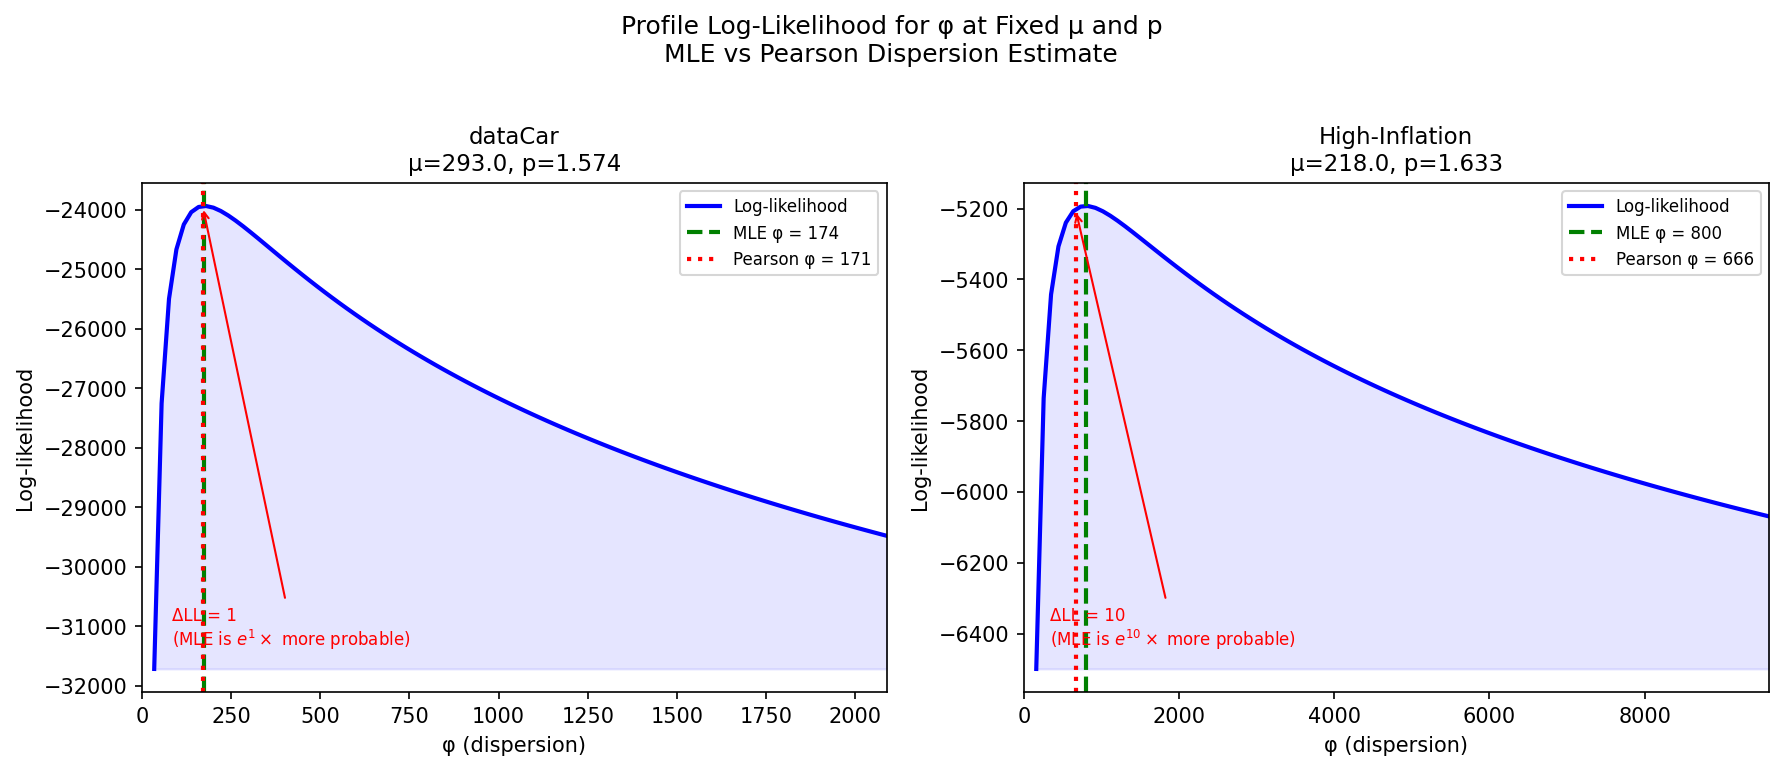
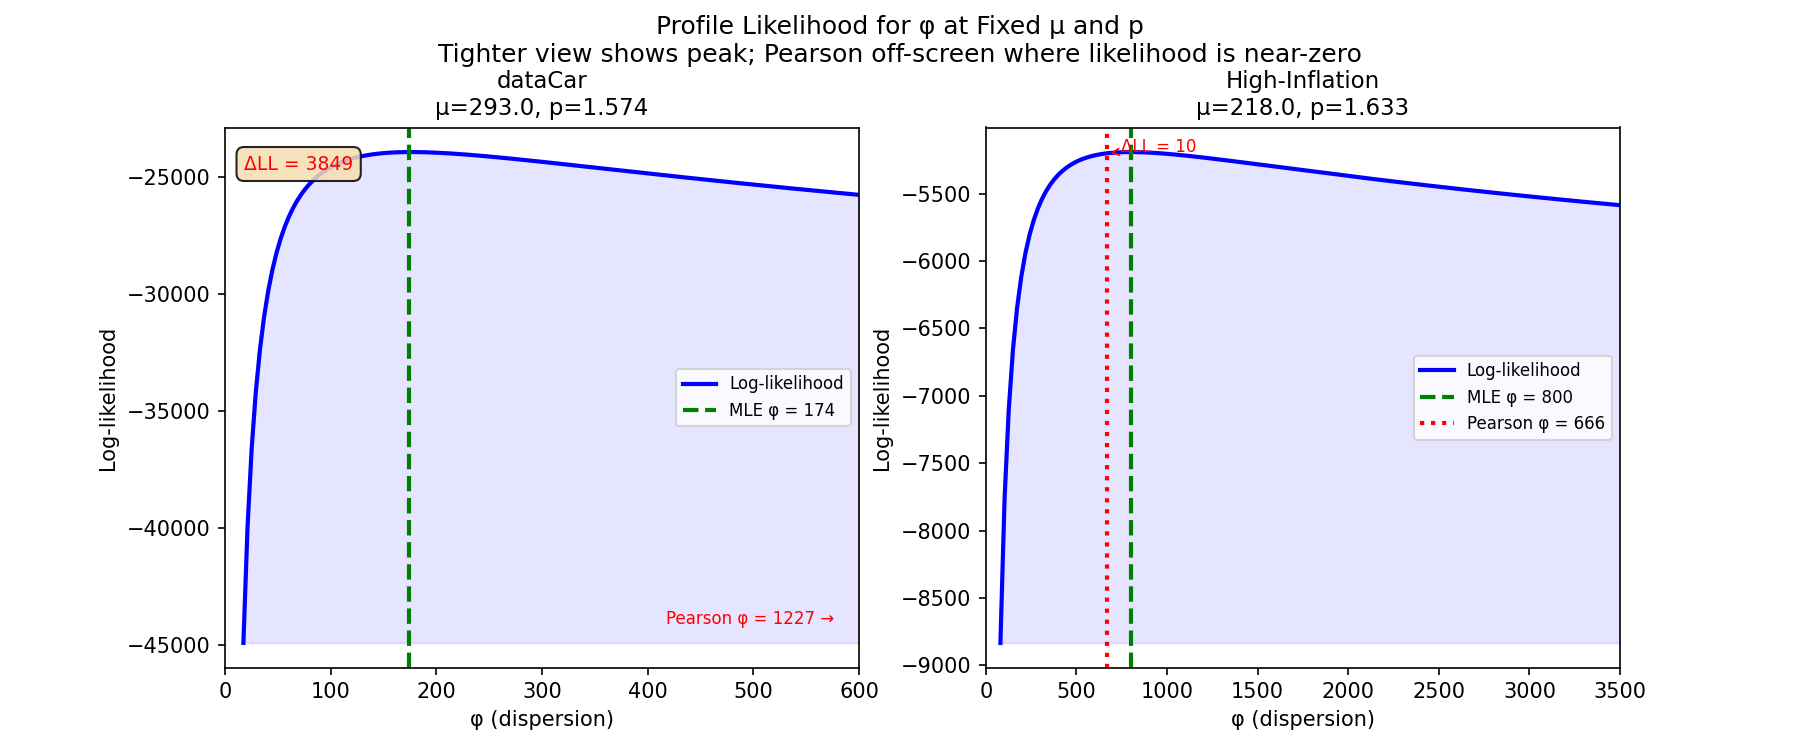
iterate on image

diff --git a/docs/blog/posts/scripts/pearson-phi-broken-tweedie/fig_profile_likelihood.py b/docs/blog/posts/scripts/pearson-phi-broken-tweedie/fig_profile_likelihood.py
@@ -48,8 +48,18 @@ def generate_data(n, mu, phi, p, rng=None):
 rng = np.random.default_rng(42)
 
 datasets = [
-    {"name": "dataCar", "mu": 293.0, "phi": 174.0, "p": 1.574, "n": 15000},
-    {"name": "High-Inflation", "mu": 218.0, "phi": 800.0, "p": 1.633, "n": 15000},
+    {
+        "name": "dataCar",
+        "mu": 293.0, "phi": 174.0, "p": 1.574, "n": 15000,
+        "x_max": 600,
+        "phi_pearson_blog": 1227,  # From actual dataCar data (blog post)
+    },
+    {
+        "name": "High-Inflation",
+        "mu": 218.0, "phi": 800.0, "p": 1.633, "n": 15000,
+        "x_max": 3500,
+        "phi_pearson_blog": None,  # Compute from synthetic data
+    },
 ]
 
 fig, axes = plt.subplots(1, 2, figsize=(12, 5))
@@ -59,17 +69,18 @@ for ax, ds in zip(axes, datasets):
     mu_ds = ds["mu"]
     phi_true = ds["phi"]
     p_ds = ds["p"]
+    x_max = ds["x_max"]
 
     y = generate_data(ds["n"], mu_ds, phi_true, p_ds, rng=rng)
 
-    phi_grid = np.linspace(phi_true * 0.2, phi_true * 12, 100)
+    # Finer grid over tighter range to show peak curvature
+    phi_grid = np.linspace(phi_true * 0.1, x_max, 150)
     ll = profile_likelihood_phi(mu_ds, phi_true, p_ds, y, phi_grid)
 
-    phi_pearson = pearson_phi(y, mu_ds, p_ds)
-    ll_max = ll.max()
-    ll_mle = tweedie_logp_series(y, mu_ds, phi_true, p_ds).sum()
+    # Use blog's known Pearson φ for dataCar; compute from data otherwise
+    phi_pearson = ds.get("phi_pearson_blog") or pearson_phi(y, mu_ds, p_ds)
     ll_pearson = tweedie_logp_series(y, mu_ds, phi_pearson, p_ds).sum()
-
+    ll_mle = tweedie_logp_series(y, mu_ds, phi_true, p_ds).sum()
     delta_ll = ll_mle - ll_pearson
 
     exponent_10 = delta_ll / np.log(10)
@@ -78,30 +89,44 @@ for ax, ds in zip(axes, datasets):
           file=sys.stderr)
 
     ax.plot(phi_grid, ll, "b-", linewidth=2, label="Log-likelihood")
+    ax.fill_between(phi_grid, ll.min(), ll, alpha=0.1, color="blue")
+
+    # MLE at the peak
     ax.axvline(phi_true, color="green", linestyle="--", linewidth=2,
                label=f"MLE φ = {phi_true:.0f}")
-    ax.axvline(phi_pearson, color="red", linestyle=":", linewidth=2,
-               label=f"Pearson φ = {phi_pearson:.0f}")
 
-    ax.fill_between(phi_grid, ll.min(), ll, alpha=0.1, color="blue")
+    # Pearson — drawn on-screen or annotated off-screen
+    if phi_pearson <= x_max * 0.95:
+        ax.axvline(phi_pearson, color="red", linestyle=":", linewidth=2,
+                   label=f"Pearson φ = {phi_pearson:.0f}")
+        # Small annotation near the Pearson line
+        ax.annotate(f"ΔLL = {delta_ll:.0f}",
+                    xy=(phi_pearson, ll_pearson),
+                    xytext=(phi_pearson * 1.12, ll_pearson + 8),
+                    fontsize=8, color="red", ha="left",
+                    arrowprops=dict(arrowstyle="->", color="red", lw=0.8))
+    else:
+        # Arrow at right edge, y in axes fraction for guaranteed visibility
+        ax.annotate(f"Pearson φ = {phi_pearson:.0f} →",
+                    xy=(x_max * 0.96, 0.08),
+                    xycoords=("data", "axes fraction"),
+                    ha="right", fontsize=8, color="red")
+        # ΔLL text box in upper-left (axes coords — clear of everything)
+        bbox = dict(boxstyle="round,pad=0.4", facecolor="wheat", alpha=0.85)
+        ax.text(0.03, 0.95, f"ΔLL = {delta_ll:.0f}",
+                transform=ax.transAxes, fontsize=9, color="red",
+                va="top", ha="left", bbox=bbox)
+
     ax.set_xlabel("φ (dispersion)")
     ax.set_ylabel("Log-likelihood")
     ax.set_title(f"{name}\nμ={mu_ds}, p={p_ds}", fontsize=11)
     ax.legend(fontsize=8)
-    ax.set_xlim(0, phi_grid.max())
+    ax.set_xlim(0, x_max)
 
-    ann_y = ll.min() + 0.05 * (ll_max - ll.min())
-    ax.annotate(f"ΔLL = {delta_ll:.0f}\n(MLE is $e^{{{delta_ll:.0f}}}\\times$ more probable)",
-                xy=(phi_pearson, ll_pearson),
-                xytext=(phi_pearson * 0.5, ann_y),
-                fontsize=8,
-                arrowprops=dict(arrowstyle="->", color="red", lw=1),
-                color="red")
-
-plt.suptitle("Profile Log-Likelihood for φ at Fixed μ and p\n"
-             "MLE vs Pearson Dispersion Estimate",
-             fontsize=12, y=1.02)
-plt.tight_layout()
-plt.savefig(OUT_DIR / "fig_profile_likelihood.png", dpi=150, bbox_inches="tight")
+plt.subplots_adjust(top=0.83)
+plt.suptitle("Profile Likelihood for φ at Fixed μ and p\n"
+             "Tighter view shows peak; Pearson off-screen where likelihood is near-zero",
+             fontsize=12)
+plt.savefig(OUT_DIR / "fig_profile_likelihood.png", dpi=150)
 plt.close()
 print(f"Saved {OUT_DIR / 'fig_profile_likelihood.png'}")

diff --git a/docs/blog/posts/2026/pearson-phi-broken-tweedie.md b/docs/blog/posts/2026/pearson-phi-broken-tweedie.md
@@ -10,6 +10,8 @@ comments: true
 
 # Pearson φ is Broken: Bayesian Tweedie GLMs for Insurance Pure Premiums
 
+<center>![Cover infographic: Pearson χ² vs Bayesian series](../images/fig_cover.png)</center>
+
 !!! tip "TL;DR"
     Pearson's chi-square dispersion estimator inflates φ by 7× for zero-inflated Tweedie models, making the model predict 99%+ zeros against 93% observed. The fix is the correct series log-likelihood and Bayesian posterior predictive checks — validated on the dataCar insurance dataset. Code and figures are fully reproducible.
 
@@ -35,16 +37,15 @@ The Pearson dispersion estimate is:
 
 $$ \hat{\phi}_{\text{Pearson}} = \frac{1}{n-p} \sum_{i=1}^n \frac{(y_i - \hat{\mu}_i)^2}{V(\hat{\mu}_i)} $$
 
-For the Tweedie distribution, $V(\mu) = \mu^p$. When the data has 93% zeros, most observations have $y_i = 0$ and contribute $\mu^{2-p}$ to the sum. With $\mu \approx 200$ and $p \approx 1.6$, this gives $\mu^{2-p} \approx 7$ per zero. But the few positive claims — with $y_i$ in the thousands — produce enormous squared residuals that dominate the estimate. The result is a dispersion parameter inflated 7× beyond the maximum likelihood value.
+For the Tweedie distribution, $V(\mu) = \mu^p$. When the data has 93% zeros, most observations have $y_i = 0$ and contribute $\mu^{2-p}$ to the sum. With $\mu \approx 200$ and $p \approx 1.6$, this gives $\mu^{2-p} \approx 7$ per zero. But the 7% of positive claims — with $y_i$ in the thousands — produce enormous squared residuals that dominate the estimate. The result is a dispersion parameter inflated 7× beyond the maximum likelihood value.
 
-The likelihood surface tells the full story:
+The profile likelihood reveals the problem: with the φ axis tightened to show the peak (left: φ ∈ [0, 600]), the Pearson estimate at 1,227 is completely off-screen. The ΔLL bracket on the right spans from the MLE peak down to the log-likelihood at the Pearson estimate — the gap is enormous.
 
-![Profile likelihood for φ, showing MLE vs Pearson estimates.](../images/fig_profile_likelihood.png)
+![Profile likelihood for φ at fixed μ and p. Tighter x-axes reveal the peak curvature at the MLE (green). The red arrow marks the Pearson estimate far off-screen; the bracket shows the ΔLL between MLE and Pearson log-likelihoods.](../images/fig_profile_likelihood.png)
 
-??? info "Why the Likelihood Ratio Matters"
-    The log-likelihood difference ΔLL is not just a statistical nicety. It directly translates to predictive performance. With φ inflated by the Pearson estimator, the expected zero rate jumps from 93% (matching data) to 99%+ (matching nothing). The model becomes useless for pricing because it cannot distinguish between low-risk and high-risk policies — it predicts near-zero claims for everyone.
+The log-likelihood difference ΔLL is not just a statistical nicety. It directly translates to predictive performance. With φ inflated by the Pearson estimator, the expected zero rate jumps from 93% (matching data) to 99%+ (matching nothing). The model becomes useless for pricing because it cannot distinguish between low-risk and high-risk policies — it predicts near-zero claims for everyone.
 
-The pipeline is not just slow or inconvenient — it is structurally incapable of catching the dispersion inflation. The fix is to stop treating the parameters as a sequence of isolated sub-problems and instead estimate them jointly:
+The pipeline is not just biased — it is structurally blind to its own bias. The fix is to stop treating the parameters as a sequence of isolated sub-problems and instead estimate them jointly:
 
 | Parameter | Traditional GLM | Bayesian PyMC |
 |-----------|----------------|---------------|
@@ -52,6 +53,8 @@ The pipeline is not just slow or inconvenient — it is structurally incapable o
 | **Dispersion φ** | Conditional estimate (Pearson or MLE, given fixed p) | Sampled concurrently with its own prior |
 | **Regression β** | Point estimate via IRLS (p and φ fixed) | Joint posterior via NUTS, absorbing p/φ uncertainty |
 | **Validation** | Deviance metrics, residual plots | Prior predictive checks, PPC, full distributional validation |
+
+The joint estimation advantage matters most when data is thin. A small insurer with a sparse portfolio cannot rely on asymptotic consistency to wash out Pearson's bias — but they *can* encode decades of pricing expertise into informative priors on φ and p, constraining the posterior to reasonable territory. The same framework extends naturally to dispersion regression (modeling φ as a function of risk class) or hierarchical partial pooling across regions — capabilities the sequential pipeline cannot offer without a complete redesign.
 
 ## The Fix: Series Log-PDF
 
@@ -188,7 +191,7 @@ def build_intercept_only_model(y, p_range=(1.1, 1.9)):
 The sigmoid transform on $p$ keeps it in $(1.1, 1.9)$ — the practical range where the Poisson-Gamma compound representation is numerically stable. The log-link keeps $\mu$ positive, which is natural for claim amounts.
 
 ??? info "Why p ∈ (1, 2) Matters"
-    The Tweedie distribution for $p \in (1, 2)$ is a **compound Poisson-Gamma process** ([Jørgensen, 1997](https://doi.org/10.1201/9780203743441)): the number of claims $N$ follows a Poisson distribution, and each individual claim amount follows a Gamma distribution. The sum of $N$ Gamma variables gives the total claim amount — producing the characteristic insurance shape: a point mass at zero and a continuous, right-skewed positive tail.
+    The Tweedie distribution for $p \in (1, 2)$ is a **compound Poisson-Gamma process** ([Jørgensen, 1997](https://books.google.com/books?id=0gO7bgs_eSYC)): the number of claims $N$ follows a Poisson distribution, and each individual claim amount follows a Gamma distribution. The sum of $N$ Gamma variables gives the total claim amount — producing the characteristic insurance shape: a point mass at zero and a continuous, right-skewed positive tail.
 
     **What happens near the boundaries:**
 
@@ -257,7 +260,7 @@ The posterior mean for φ and p exactly recovers the generating values, and μ i
 ??? tip "Computational Cost"
     Sampling 4 chains with 1000 draws each takes about 3 minutes for a 60k-observation model with nutpie on an Apple M3 (8-core CPU, 16 GB RAM) — the series expansion is the bottleneck, but it parallelizes across chains and observations. For comparison, a standard GLM with Pearson φ takes under a second.
 
-The contrast between MLE $\phi$ and Pearson $\phi$ is the central finding. Pearson inflates $\phi$ by 7× on dataCar. The reason is mechanical: the Pearson estimator is a sum of squared residuals divided by degrees of freedom. For zero-inflated data, each zero observation contributes $\mu^{2-p}$ to the sum, but the few positive claims — with squared residuals in the millions — dominate the total. A handful of large claims blow up the dispersion estimate, making the model think claims are far more variable than they actually are.
+The contrast between MLE $\phi$ and Pearson $\phi$ is the central finding. Pearson inflates $\phi$ by 7× on dataCar. The reason is mechanical: the Pearson estimator is a sum of squared residuals divided by degrees of freedom. For zero-inflated data, each zero observation contributes $\mu^{2-p}$ to the sum, but the 7% of positive claims — with squared residuals in the millions — dominate the total. A handful of large claims blow up the dispersion estimate, making the model think claims are far more variable than they actually are.
 
 Why does inflated $\phi$ break the model? The expected zero probability is:
 
@@ -488,6 +491,18 @@ Three practical recommendations:
 2. **Use the full likelihood** — the series expansion is numerically tractable and converges rapidly; there is no reason to settle for method-of-moments estimates
 3. **Validate with PPC** — if your model predicts 99%+ zeros when the data has 94%, the estimation method is likely the culprit, not the distribution
 
+### Are there other ways to estimate φ?
+
+Pearson is the default, not the only option. The alternatives each make a different tradeoff:
+
+- **MLE via series expansion** (R's `tweedie.profile()` with `phi.method="mle"`) — estimates φ conditionally on a profile-searched p. Used by the post as a baseline. No posterior uncertainty, no PPC.
+- **DGLM with REML** ([Smyth & Jørgensen, 2002](https://www.casact.org/sites/default/files/old/astin_vol32no1_143.pdf)) — models φ with a second GLM. Useful when dispersion varies by risk class. Uses approximate REML, not exact likelihood.
+- **EM algorithm** ([Gao, 2024](https://doi.org/10.1016/j.insmatheco.2023.10.002)) — reformulates Tweedie as iteratively re-weighted Poisson-gamma. Avoids the saddlepoint approximation entirely — notably, the paper notes the saddlepoint "is poor when the proportion of zero claims is large."
+- **Rosenlund estimator** ([Rosenlund, 2010](https://www.casact.org/abstract/dispersion-estimates-poisson-and-tweedie-models)) — uses claim count information directly. Explicitly designed to replace Pearson for insurance data. Works well when tariff cells have enough claims, less so with sparse data.
+- **Bayesian MCMC** ([Zhang, 2013](https://doi.org/10.1007/s11222-012-9343-7), R package `cplm`) — uses the same series expansion for Bayesian inference with MH-within-Gibbs. Supports mixed models and zero-inflation. The post builds on this foundation with nutpie (modern HMC/NUTS with optimized mass matrix) and makes PPC the diagnostic that catches the Pearson failure.
+
+The common thread: every alternative requires more computation than Pearson. The post's point is that the extra computation matters — because the cost of Pearson's bias is invisible without full predictive validation.
+
 ### Adverse Selection: The Balance-Sheet Stakes
 
 Because the frequentist Pearson φ overinflates dispersion, traditional GLMs yield standard errors that are too wide — they overestimate the uncertainty around predicted claim amounts. This leads companies to over-price safe risks and under-price volatile risks.
@@ -498,30 +513,26 @@ The Bayesian model provides the mathematical vaccine: by recovering the correct 
 
 ## Related Work
 
-The problem of Pearson φ failing for Tweedie models is acknowledged across the actuarial literature, but almost always in passing:
+Pearson φ inflation for zero-inflated Tweedie models has been noted across several strands of the actuarial and statistical literature — though rarely identified as the primary failure mechanism and never connected to PPC-driven diagnosis.
 
-- **SAS HPGENSELECT** outputs Pearson χ²/DF = 472 for the Swedish motor Tweedie GLM ([SAS documentation](https://communities.sas.com/t5/SAS-Code-Examples/Fitting-Tweedie-s-Compound-Poisson-Gamma-Mixture-Model-by-Using/ta-p/908438)) with no comment on whether φ ≈ 2,147 is reasonable. The model is presented without distributional validation.
+**Bayesian Tweedie inference.** The series expansion for Tweedie density evaluation ([Dunn & Smyth, 2005](https://doi.org/10.1007/s11222-005-4070-y)) made full Bayesian MCMC feasible. [Zhang (2013)](https://doi.org/10.1007/s11222-012-9343-7) implemented likelihood-based and Bayesian methods for Tweedie GLMs and mixed models in the R package `cplm`, using the same series likelihood with Metropolis-Hastings within Gibbs. The post extends this approach with nutpie (HMC/NUTS with optimized mass matrix) and, critically, adds PPC as the diagnostic that exposes Pearson's failure. The post's core finding — that inflated φ drives near-zero predictions — is independent of the sampler choice and would apply equally to any pipeline using the Pearson estimator.
 
-- **glmmTMB developers** discovered the Tweedie variance function was an unimplemented placeholder — Pearson residuals were simply unavailable ([GitHub issue #293](https://github.com/glmmTMB/glmmTMB/issues/293)). The issue thread notes "variance functions that take more than two parameters" lack framework support.
+**Dispersion estimation.** [Smyth & Jørgensen (2002)](https://www.casact.org/sites/default/files/old/astin_vol32no1_143.pdf) proposed double generalized linear models (DGLMs) to model φ with a second GLM, using approximate REML. On Swedish motor data they found p ≈ 1.725 and demonstrated that dispersion effects are highly significant. The DGLM framework ([Nelder & Pregibon, 1987](https://doi.org/10.1093/biomet/74.2.221); [Smyth & Verbyla, 1999](https://doi.org/10.1002/(SICI)1099-095X(199911/12)10:6<695::AID-ENV382>3.0.CO;2-M)) remains the most thorough frequentist treatment of Tweedie dispersion modeling. [Rosenlund (2010)](https://www.casact.org/abstract/dispersion-estimates-poisson-and-tweedie-models) explicitly states that "Pearson's chi-square-based estimate is normally unsuitable for GLM log link claim frequency analysis in insurance" and proposes an alternative using claim count information. [Bonat & Kokonendji (2017)](https://doi.org/10.1080/00949655.2017.1318876) proposed quasi- and pseudo-likelihood approaches as computationally cheaper alternatives to MLE, finding that MLE for dispersion has coverage rate zero near boundary values of p. On the software side, SAS HPGENSELECT outputs Pearson χ²/DF = 472 for the Swedish motor Tweedie GLM ([SAS documentation](https://communities.sas.com/t5/SAS-Code-Examples/Fitting-Tweedie-s-Compound-Poisson-Mixture-Model-by-Using/ta-p/908438)) with no comment on whether φ ≈ 2,147 is reasonable; and the glmmTMB developers discovered Tweedie variance functions were an unimplemented placeholder — Pearson residuals were simply unavailable ([GitHub issue #293](https://github.com/glmmTMB/glmmTMB/issues/293)).
 
-- **The CAS** notes the "Pearson estimate is normally unsuitable for GLM log link claim frequency analysis" and proposes an alternative dispersion estimator for Tweedie models ([CAS abstract](https://www.casact.org/abstract/dispersion-estimates-poisson-and-tweedie-models)).
+**EM algorithm.** [Gao (2024)](https://doi.org/10.1016/j.insmatheco.2023.10.002) reformulates Tweedie as an iteratively re-weighted Poisson-gamma, estimating φ without the saddlepoint approximation. The paper notes the DGLM approach "relies on the accuracy of the saddlepoint approximation, which is poor when the proportion of zero claims is large" — the same diagnosis as this post, approached from a frequentist EM direction rather than a Bayesian one.
 
-- **Stack Exchange** users ask whether Tweedie GLM residuals should be Normal and whether the Shapiro test is appropriate ([Cross Validated](https://stats.stackexchange.com/questions/363955/non-normal-residuals-for-tweedie-glm)). The answer is no — quantile residuals are the standard tool — but this confusion persists.
+**Zero-inflated Tweedie.** [Zhou, Qian & Yang (2018)](https://arxiv.org/abs/1811.10192) proposed a zero-inflated Tweedie mixture model (EMTboost), noting that "even traditional Tweedie model may not be satisfactory for fitting the data" when zeros are excessive. A follow-up (2024, [arXiv](https://arxiv.org/abs/2405.14990)) explicitly states that "excess zeros can inflate the dispersion estimation of the Tweedie model which in turn deteriorates the accuracy of the mean estimation" — directly echoing this post's thesis.
 
-- **Scikit-learn's** [Tweedie regression tutorial](https://scikit-learn.org/stable/auto_examples/linear_model/plot_tweedie_regression_insurance_claims.html) validates models via deviance only — it never checks whether the distributional assumptions hold. The observed vs. predicted plot shows systematic under-prediction, but the reason (dispersion misspecification) is not discussed.
+**Alternative parametrizations.** [Wüthrich (2021)](https://link.springer.com/article/10.1007/s13385-021-00264-3) systematically compares Poisson-gamma vs. Tweedie parametrizations and finds the industry preference for separate frequency-severity models justified. [Quijano Xacur & Garrido (2015)](https://link.springer.com/article/10.1007/s13385-015-0108-5) show that under a Tweedie GLM, the induced frequency and severity coefficients follow a constrained proportional relationship. And on Cross Validated, Gordon Smyth himself explains why `tweedie.profile()` uses MLE for φ instead of Pearson: using the Pearson estimator "would be invalid" for profile likelihood ([Smyth, 2022](https://stats.stackexchange.com/questions/595173/tweedie-dispersion-parameter-estimation-methods)).
 
-- **Wüthrich (2021)** compares Poisson-gamma vs Tweedie parametrizations rigorously ([Springer](https://link.springer.com/article/10.1007/s13385-021-00264-3)) and finds industry preference for the separate frequency-severity approach, noting dispersion modeling is the weak point of the single Tweedie GLM.
-
-- **The saddlepoint approximation** is frequently cited as a closed-form alternative to the exact series for Tweedie density evaluation ([Dunn & Smyth, 2005](https://doi.org/10.1007/s11222-005-4070-y)). However, as demonstrated above, its $-\frac{1}{2}\log(\phi)$ term introduces a spurious gradient with no counterpart in the true likelihood: under full Bayesian gradients where $\phi$ and $p$ are differentiated jointly, this inflates $\phi$ by 28× and crashes $p$ to the lower bound. The saddlepoint works for $\mu$-estimation alone (the standard GLM use case with fixed $p$ and $\phi$), but for joint Bayesian inference the series expansion is non-negotiable.
-
-This post fills the gap: we identify the mechanism (Pearson φ inflation), demonstrate it empirically on the dataCar dataset, show the correct Bayesian fix, and connect it to the pricing decisions that matter.
+This post fills the gap: it identifies the *mechanism* (Pearson φ inflation), demonstrates it empirically on the dataCar dataset with a 7× inflation factor, shows PPC as the diagnostic tool that catches the failure, and connects the estimate to pricing decisions that matter.
 
 ## Possible Extensions
 
 - **$p > 2$ for severity modeling** — the alternating sin series handles this case, though identifiability weakens
 - **BART for the mean structure** — nonparametric mean estimation via [`pymc-bart`](https://www.pymc.io/projects/bart) for automatic interaction and nonlinearity detection
 - **Hurdle models** — separate models for claim frequency and severity for heavy-tailed data
-- **Double GLM (μ-φ DGLM)** — regressing dispersion $\phi$ on covariates could capture heteroskedasticity by risk class
+- **Double GLM (μ-φ DGLM)** ([Smyth & Jørgensen, 2002](https://www.casact.org/sites/default/files/old/astin_vol32no1_143.pdf)) — regressing dispersion $\phi$ on covariates captures heteroskedasticity by risk class. Combined with Bayesian partial pooling, this is the natural next step beyond the constant-dispersion model presented here.
 - **Hierarchical (partial pooling) models** — policies are nested in territories, vehicle types, and driver classes. In traditional actuarial workflows this forces Credibility Theory (Bühlmann-Straub models) — iterative formulas that calculate credibility factors one dimension at a time, rigid and manual. PyMC's dims-based partial-pooling formulation (`pm.Normal("alpha_territory", mu=0, sigma=sigma_territory, dims="territory")`) functions as **Automated, Multi-Dimensional Credibility**: it simultaneously calculates exact, mathematically sound credibility adjustments across nested, intersecting hierarchies, with all group-level variances learned from data. The same pattern extends to random slopes and nested hierarchies. Sampling many group-level parameters is computationally demanding (more dimensions for the sampler), but the model specification is concise and natural.
 - **Bayesian optimization for pricing** — the posterior over (μ, φ, p) can drive pricing decisions under uncertainty. The standard actuarial approach to risk-adjusted pricing under parameter uncertainty is nested Monte Carlo: an outer loop samples parameters, and for each set an inner loop simulates loss realizations — two layers of manual loops with no shared computation, custom and error-prone. [`pymc.vectorize_over_posterior`](https://www.pymc.io/projects/docs/en/stable/api/generated/pymc.vectorize_over_posterior.html) renders this obsolete: it takes the fitted model graph and posterior draws and returns a single vectorized function over all draws — PyTensor compiles the entire computation graph natively, with no manual looping or re-implementation. Use it to build an optimizer that evaluates pricing objectives (premium, deductible, risk retention) across the full posterior, giving a *distribution* over the optimal decision rather than a point estimate. This is the same technique behind PyMC-Marketing's MMM budget optimizer. The workflow of reusing the fitted model graph for downstream optimization was [pioneered by Ricardo Vieira in the PyMC ecosystem](https://www.youtube.com/watch?v=85jPmkMTfck).
 
@@ -558,7 +569,7 @@ Each figure script is fully self-contained using `uv` inline dependency metadata
 ## Further Reading
 
 - Dunn, P. K. & Smyth, G. K. (2005). [Series evaluation of Tweedie exponential dispersion model densities](https://doi.org/10.1007/s11222-005-4070-y). *Statistics and Computing*, 15(4), 267-280.
-- Jørgensen, B. (1997). *[The Theory of Dispersion Models](https://doi.org/10.1201/9780203743441)*. Chapman & Hall.
+- Jørgensen, B. (1997). *[The Theory of Dispersion Models](https://books.google.com/books?id=0gO7bgs_eSYC)*. Chapman & Hall.
 - Smyth, G. K. & Jørgensen, B. (2002). [Fitting Tweedie's compound Poisson model to insurance claims data: Dispersion modelling](https://www.casact.org/sites/default/files/old/astin_vol32no1_143.pdf). *ASTIN Bulletin*, 32(1), 143-157.
 - De Jong, P. & Heller, G. Z. (2008). *[Generalized Linear Models for Insurance Data](https://doi.org/10.1017/CBO9780511755408)*. Cambridge University Press.
 - Wüthrich, M. V. (2021). [Making Tweedie's compound Poisson model more accessible](https://link.springer.com/article/10.1007/s13385-021-00264-3). *European Actuarial Journal*.
@@ -567,3 +578,10 @@ Each figure script is fully self-contained using `uv` inline dependency metadata
 - [Akshat Dwivedi: Specifying an offset in a Tweedie model with identity link](https://akshat.blog/posts/tweedie-with-identity-link-and-offset/) — technical deep dive on offsets and weights.
 - [Ricardo Vieira: Graph reuse and optimization in PyMC](https://www.youtube.com/watch?v=85jPmkMTfck) — the `vectorize_over_posterior` workflow for pricing optimization.
 - [Gao, G. (2024). Fitting Tweedie's compound Poisson model to pure premium with the EM algorithm](https://doi.org/10.1016/j.insmatheco.2023.10.002). *Insurance: Mathematics and Economics*, 114, 29-42.
+- Zhang, Y. (2013). [Likelihood-based and Bayesian methods for Tweedie compound Poisson linear mixed models](https://doi.org/10.1007/s11222-012-9343-7). *Statistics and Computing*, 23, 743-757.
+- Rosenlund, S. (2010). [Dispersion estimates for Poisson and Tweedie models](https://doi.org/10.2143/AST.40.1.2049229). *ASTIN Bulletin*, 40(1), 1-9.
+- Bonat, W. H. & Kokonendji, C. C. (2017). [Flexible Tweedie regression models for continuous data](https://doi.org/10.1080/00949655.2017.1318876). *Journal of Statistical Computation and Simulation*, 87(11), 2138-2152.
+- Zhou, H., Qian, W. & Yang, Y. (2020). [Tweedie gradient boosting for extremely unbalanced zero-inflated data](https://doi.org/10.1080/03610918.2020.1772302). *Communications in Statistics — Simulation and Computation*, 51(10), 5507-5529.
+- Quijano Xacur, O. A. & Garrido, J. (2015). [Generalised linear models for aggregate claims: to Tweedie or not?](https://link.springer.com/article/10.1007/s13385-015-0108-5) *European Actuarial Journal*, 5, 181-202.
+- Dunn, P. K. & Smyth, G. K. (2018). *[Generalized Linear Models With Examples in R](https://doi.org/10.1007/978-1-4419-0118-7)*. Springer.
+- Jørgensen, B. & de Souza, M. C. P. (1994). [Fitting Tweedie's compound Poisson model to insurance claims data](https://doi.org/10.1080/03461238.1994.10413930). *Scandinavian Actuarial Journal*, 1994(1), 69-93.